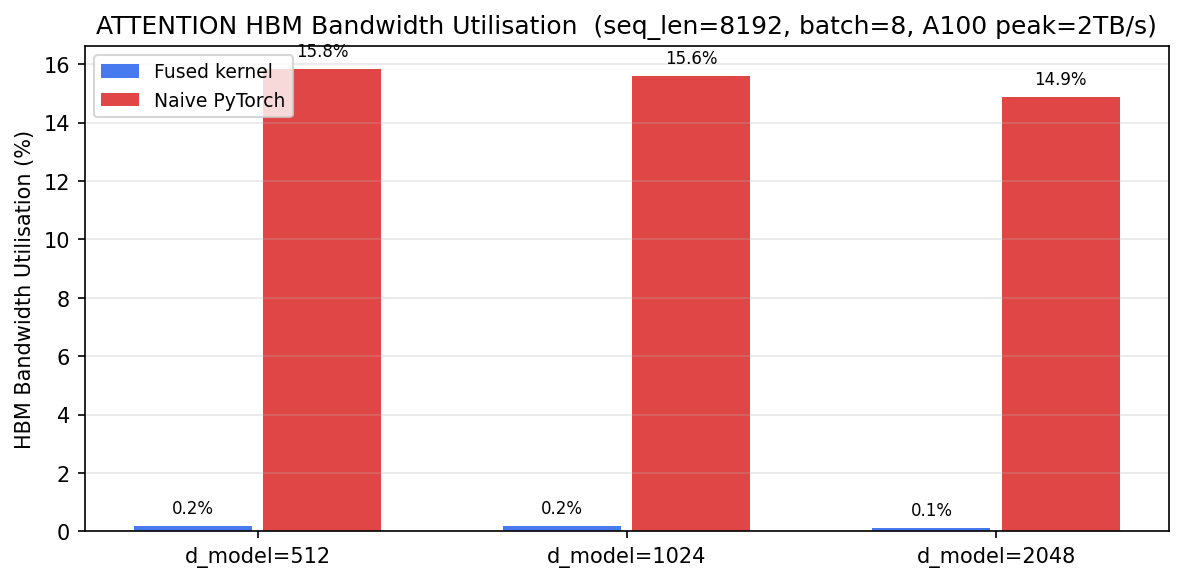
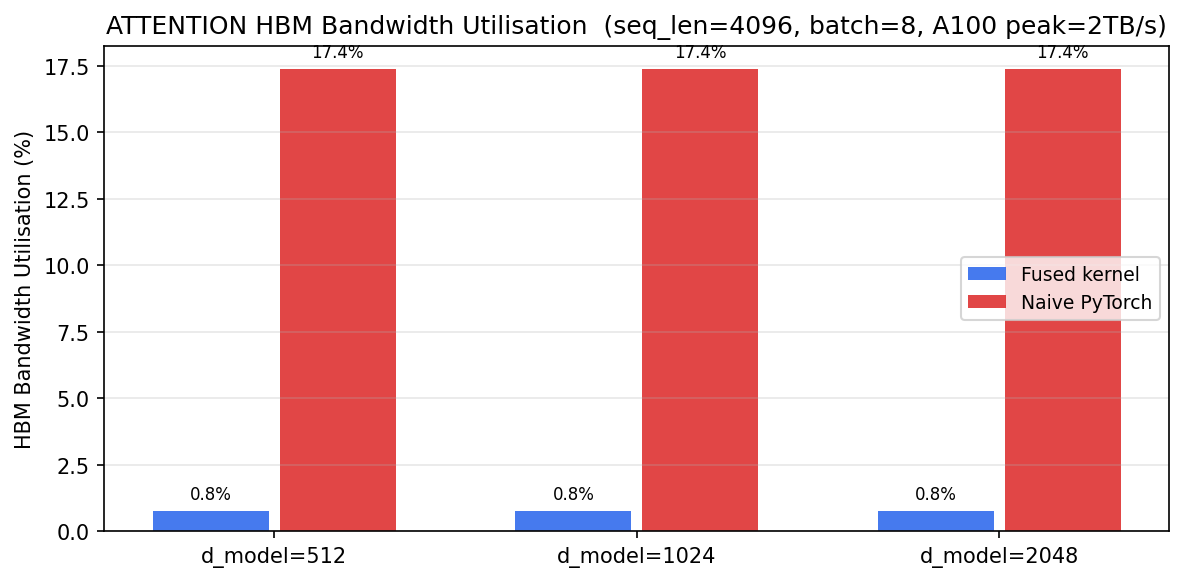
Add shared memory swizzling and adjust wmma tile size because of memory error

diff --git a/sweep.py b/sweep.py
@@ -1,7 +1,7 @@
 """sweep.py — Unified parameter sweep for all three CUDA kernels.
 
 Sweeps (from proposal §4):
-  seq_len  : 512, 1024, 2048, 4096, 8192
+  seq_len  : 512, 1024, 2048, 4096
   d_model  : 512, 1024, 2048   (d_ff = 4 × d_model)
   head_dim : fixed at 64       (standard; heads fixed at 8)
   batch    : fixed at 8
@@ -49,7 +49,7 @@ A100_HBM_BW_TBps = 2.0    # HBM bandwidth peak (TB/s)
 # ══════════════════════════════════════════════════════════════════════════
 #  Sweep grid  (§4 of proposal)
 # ══════════════════════════════════════════════════════════════════════════
-SEQ_LENS  = [512, 1024, 2048, 4096, 8192]
+SEQ_LENS  = [512, 1024, 2048, 4096]
 D_MODELS  = [512, 1024, 2048]
 BATCH     = 8
 HEADS     = 8
@@ -215,7 +215,7 @@ def bench_mlp(ext, batch, seq_len, d_model):
 def bench_attention(ext, batch, seq_len, d_model):
     import torch.nn.functional as F
     heads    = HEADS
-    head_dim = d_model // heads
+    head_dim = HEAD_DIM  # fixed at 64; attention sweeps seq_len, not d_model
     device   = "cuda"
     dtype    = torch.float16
     torch.manual_seed(42)
